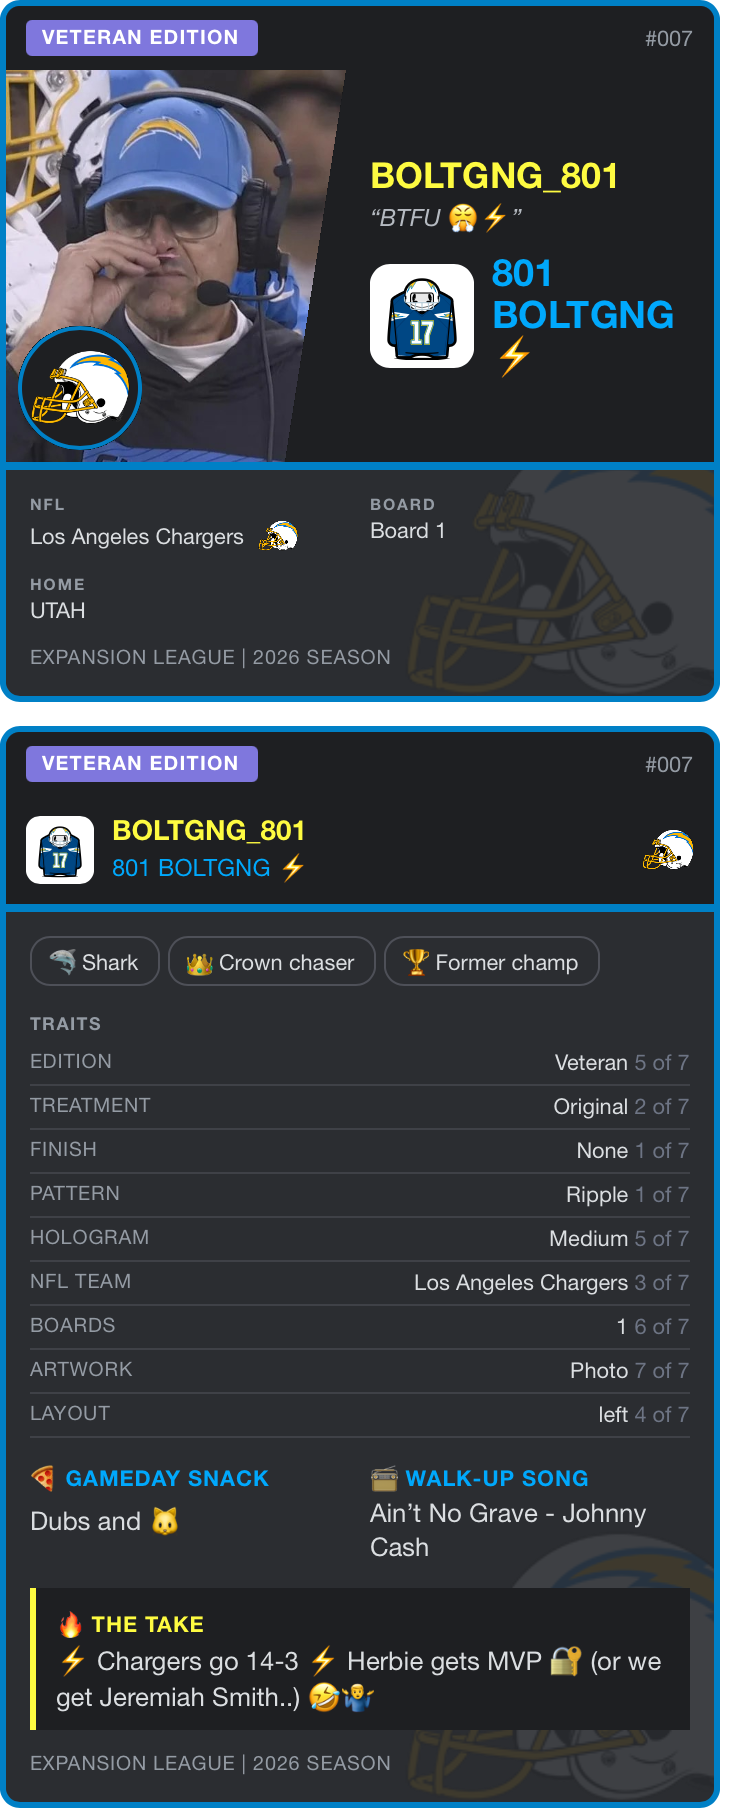
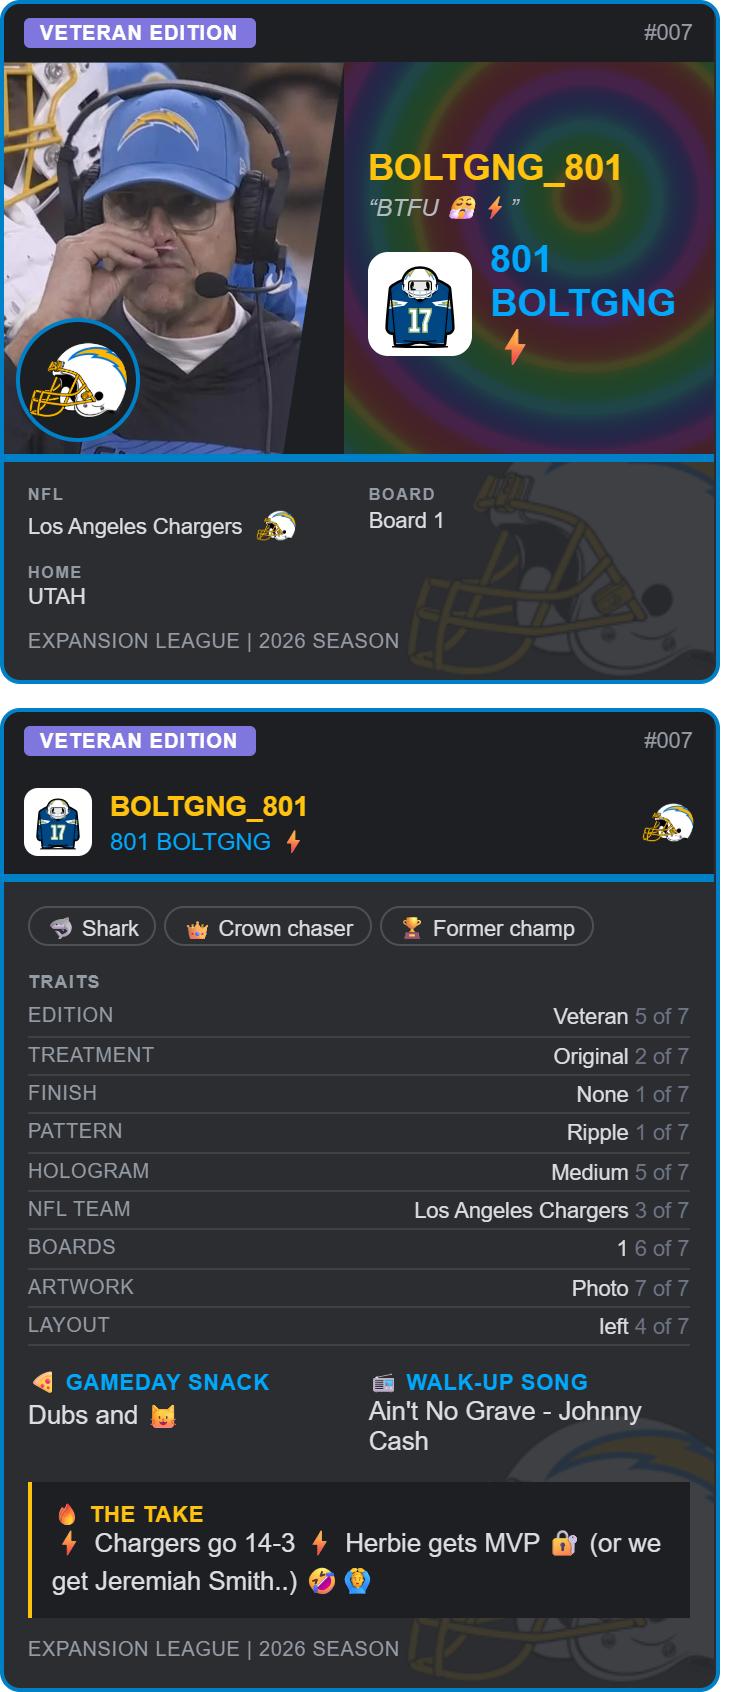
Hologram belongs on the name plate, and ship Wyatt's corrected card
The shine sat over the artwork, where a colour-dodge rainbow buries the photo —
the one part of the card that is actually the person's. It now runs across the
plate beside the photo, behind the name and the team, which is where it reads as
foil instead of damage. The name, nickname and team sit above it.

repair/bolt-007.png is card #007 rebuilt with his own settings untouched:
Original treatment, Finish None, Ripple at Medium, left layout, his badges, his
flair, his take, his number. The only thing that changed from what he posted is
that his photo is in it.

diff --git a/cards/index.html b/cards/index.html
@@ -255,10 +255,14 @@ function nav(b,n,l){return `${S.err?`<div class="er">${S.err}</div>`:""}<div cla
 function alsoOn(sz){const m=mainB();return selB().filter(b=>b!=m&&S.teams[b]!=mainT()).map(b=>`<span style="display:inline-flex;align-items:center;gap:5px;margin:0 8px 4px 0">${lg(b,S.teams[b],sz)}<span style="color:#dbdee1;font-size:12px">${esc(S.teams[b])}</span></span>`).join("")}
 function card(which){
  const t=tm(),a=S.accent||t[2],sec=t[3],L=S.layout,m=mainB();
- const plate=`<div style="min-width:0;flex:1;padding:14px 12px;display:flex;flex-direction:column;justify-content:center;text-align:${L=='center'?'center':'left'}">
-  <div style="color:${S.nameC};font-size:18px;font-weight:700;line-height:1.2">${esc(S.name)||"Name"}</div>
-  ${S.nick?`<div style="color:#b5bac1;font-size:12px;font-style:italic">“${esc(S.nick)}”</div>`:""}
-  <div style="display:flex;align-items:center;gap:9px;margin-top:8px;justify-content:${L=='center'?'center':'flex-start'}">${m?lg(m,mainT(),52):lg("","",52)}
+ // The shine lives on the name plate — the block beside the photo carrying the name and the
+ // team. Not over the artwork, which is the one part of the card that belongs to the person.
+ const foilOn=S.holoAmt>0;
+ const holo=foilOn?`<div class="nftholo ${PATS[S.pattern]||'p-linear'}" style="opacity:${(S.holoAmt/100).toFixed(2)}"></div>`:"";
+ const plate=`<div style="min-width:0;flex:1;position:relative;padding:14px 12px;display:flex;flex-direction:column;justify-content:center;text-align:${L=='center'?'center':'left'}">${holo}
+  <div style="position:relative;color:${S.nameC};font-size:18px;font-weight:700;line-height:1.2">${esc(S.name)||"Name"}</div>
+  ${S.nick?`<div style="position:relative;color:#b5bac1;font-size:12px;font-style:italic">“${esc(S.nick)}”</div>`:""}
+  <div style="position:relative;display:flex;align-items:center;gap:9px;margin-top:8px;justify-content:${L=='center'?'center':'flex-start'}">${m?lg(m,mainT(),52):lg("","",52)}
   <div style="color:${S.teamC};font-size:19px;font-weight:700;line-height:1.15;word-wrap:break-word;min-width:0">${esc(mainT())||"Team name"}</div></div></div>`;
  let head;
  if(L=="center"){
@@ -280,16 +284,6 @@ function card(which){
  const edc={Rookie:"#1D9E75",Veteran:"#7F77DD",Commissioner:"#FFC62F"}[S.ed];
  const meta=[t[1],bshort(selB()),S.where?"📍 "+esc(S.where):"",S.since?"Playing since "+esc(S.since):""].filter(Boolean).join("  |  ");
  const also=alsoOn(24);
- // Finish, Pattern and Hologram are three separate controls and the card records all three, so
- // the hologram has to stand on its own two. It used to need a finish as well — which meant
- // choosing "None" for your edge silently threw away a hologram you had deliberately set, and
- // the trait sheet then advertised a Ripple at Medium that was nowhere on the card.
- const foilOn=S.holoAmt>0;
- // The shine belongs on the card, not on the picture. It used to sit over the artwork, where a
- // colour-dodge rainbow buries whatever photo somebody chose — the one thing on the card that is
- // actually theirs. It now runs across the body below the plate, over the watermark and under
- // the text, which is where the foil is on a real card.
- const holo=foilOn?`<div class="nftholo ${PATS[S.pattern]||'p-linear'}" style="opacity:${(S.holoAmt/100).toFixed(2)}"></div>`:"";
  const headWrap=head;
  // The four things that are true all season and never need typing twice: the NFL
  // team, the boards, where you are, and how long you have been here. None of them
@@ -309,7 +303,7 @@ function card(which){
 
  const front=`<div class="card" style="border:3px solid ${a}">
  ${topBar}${headWrap}<div style="height:4px;background:${a}"></div>
- <div style="position:relative;padding:12px;overflow:hidden">${wm}${holo}<div style="position:relative">
+ <div style="position:relative;padding:12px;overflow:hidden">${wm}<div style="position:relative">
  ${facts?`<div style="display:grid;grid-template-columns:repeat(2,minmax(0,1fr));gap:9px 10px;margin-bottom:10px">${facts}</div>`:""}
  ${also?`<div style="margin-bottom:8px"><div style="color:#949ba4;font-size:9px;font-weight:700;letter-spacing:.06em;margin-bottom:4px">ALSO RUNNING</div>${also}</div>`:""}
  <div style="color:#949ba4;font-size:10px;letter-spacing:.04em">EXPANSION LEAGUE  |  2026 SEASON</div>
